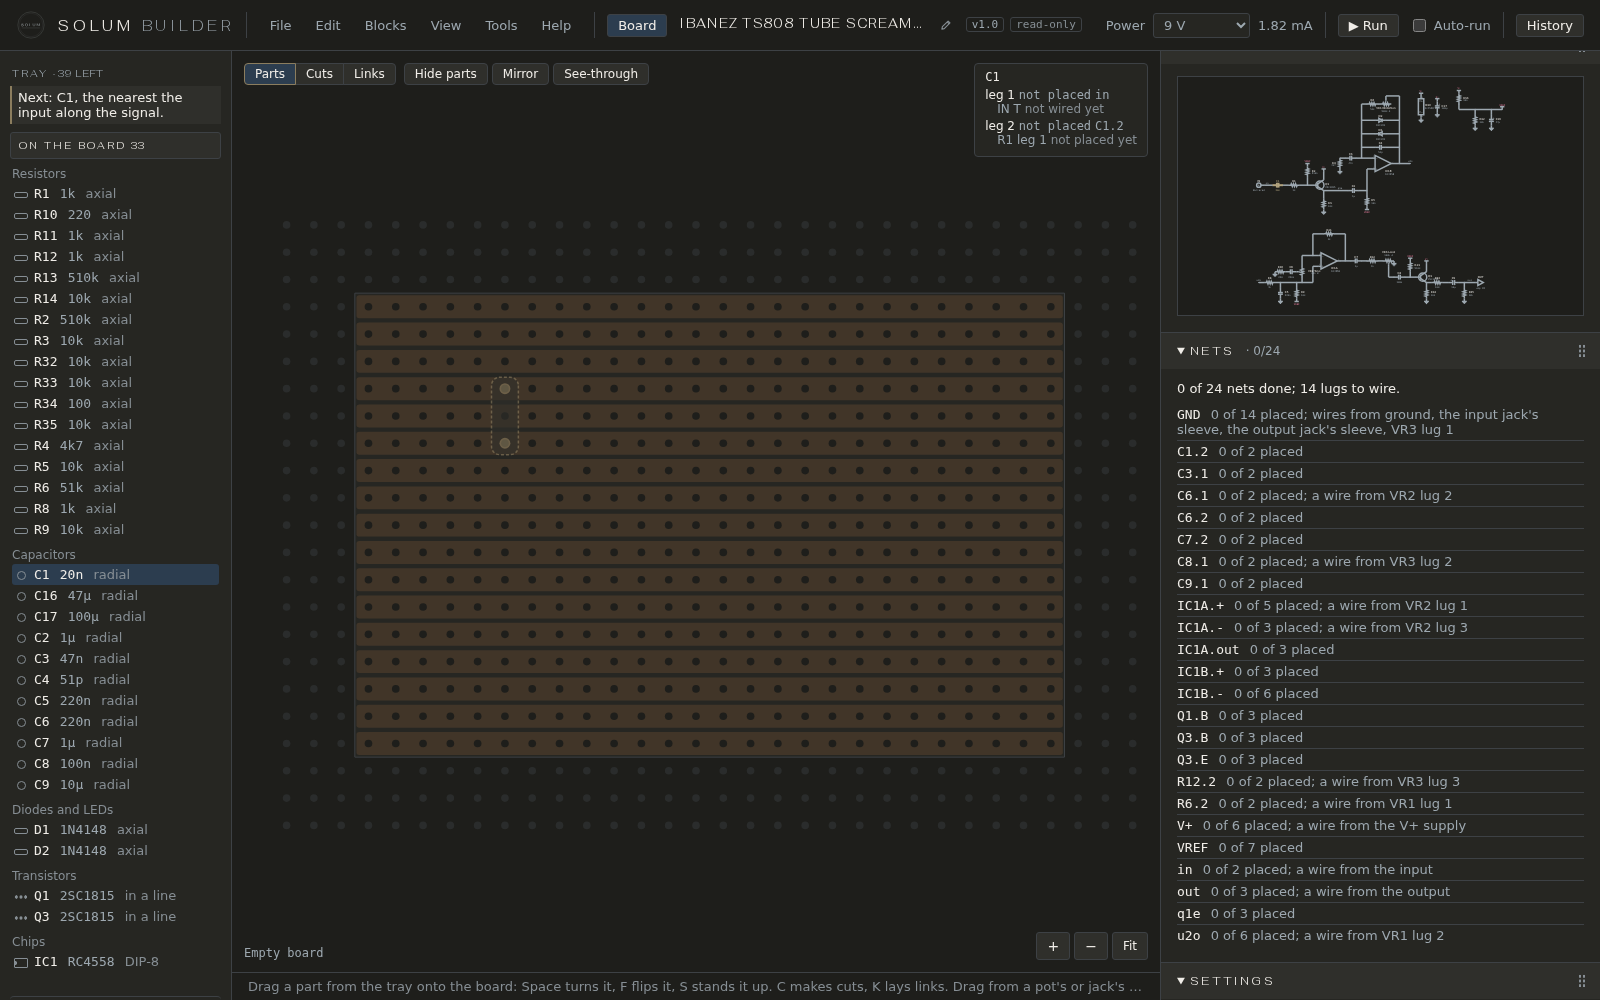
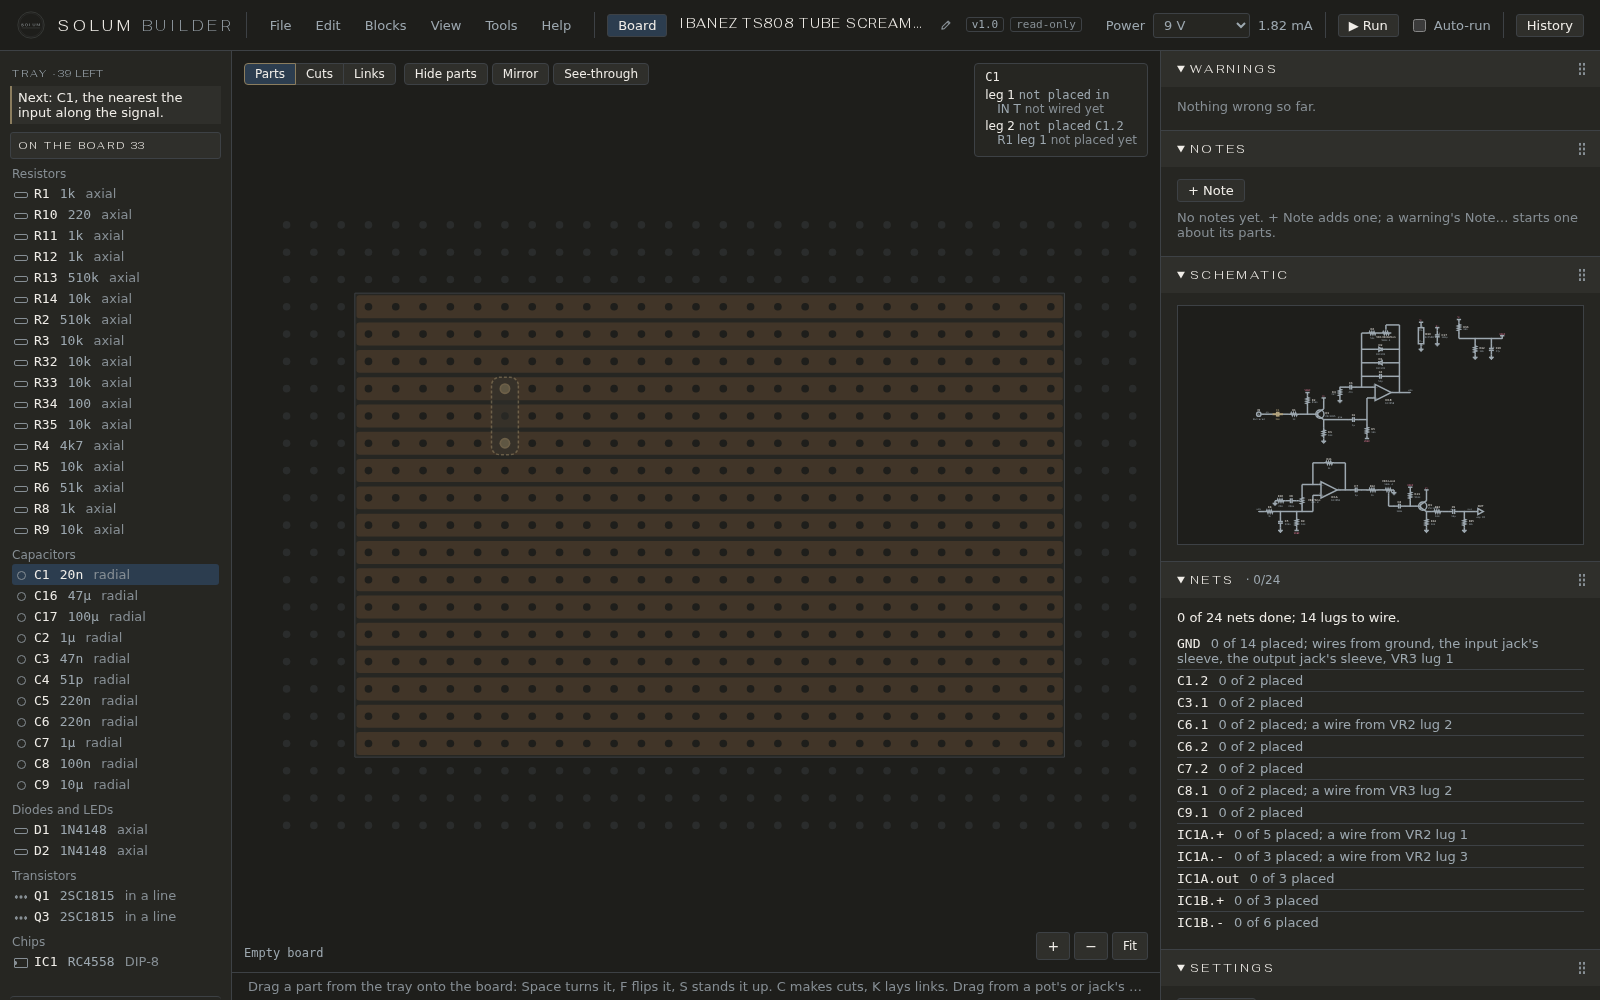
Board: the Nets list scrolls in its own pane; the guide explains the limits and the layout help
- Nets capped at 300 px with its own scroll (as Problems' and DC's lists), so
  Settings and the panes below stay on screen on a big circuit (D-371 note).
  UI test on the TS808's 24 nets; the board pictures made again.
- docs/guide/stripboard.md: why the placement limits matter, which parts each
  keeps, the rule (on the pin's strip, within 2 holes plus one per extra part,
  nothing between), what counts as a link near a high-gain input, and a new
  "How the layout help works" (Start a board, Fill the rest, Tidy up, and
  Build a full layout's search, attempts and how the best board is chosen).

Changed region(s): [[0.7188, 0.093, 0.9688, 1.0], [0.75, 0.062, 0.8125, 0.155]]

diff --git a/web/app.css b/web/app.css
@@ -724,9 +724,10 @@ body:has(.panels details.moving, .board-panels details.moving) { cursor: grabbin
 
 /* Problems (D-077) */
 .panels summary .count, .board-panels summary .count { font-family: var(--font-ui); text-transform: none; letter-spacing: 0; color: var(--text-2); margin-left: 6px; }
-.problem-list, .dc-list { overflow-y: auto; overscroll-behavior: contain; padding-right: 4px; }
+.problem-list, .dc-list, .net-list { overflow-y: auto; overscroll-behavior: contain; padding-right: 4px; }
 .problem-list { max-height: 300px; } /* about six problems */
 .dc-list { max-height: 200px; } /* about the Harmonics plot */
+.net-list { max-height: 300px; } /* the board's Nets: about twelve nets, so the panes below stay in reach */
 .dc-end { color: var(--text-3); font-size: 11px; }
 .problem { border-left: 3px solid var(--border); margin: 0 0 6px; padding: 4px 0 4px 8px; }
 .problem:has(.sev-error) { border-left-color: var(--error); }

diff --git a/web/board/board-view.js b/web/board/board-view.js
@@ -1036,7 +1036,7 @@ export function boardView(host, app) {
     $("board-nets-count").textContent = progress.nets.length ? `· ${progress.nets_done}/${progress.nets.length}` : "";
     $("board-nets-body").replaceChildren(
       h("p", { class: "board-progress" }, [netsLine(progress)]),
-      h("ul", { class: "board-list" }, progress.nets.map((n) => {
+      h("ul", { class: "board-list net-list" }, progress.nets.map((n) => {
         const row = h("li", { class: `net-${n.state}`, "data-net": n.net }, [h("span", { class: "net" }, [n.net]), " ", h("span", { class: "state" }, [netWords(n)])]);
         row.addEventListener("click", () => app.select({ kind: "net", id: n.net }));
         return row;

diff --git a/tests/ui/test_board.py b/tests/ui/test_board.py
@@ -125,6 +125,18 @@ def test_a_circuit_without_a_board_shows_its_parts_to_place(page: Page, base_url
     )
 
 
+def test_a_long_nets_list_scrolls_in_its_own_pane(page: Page, base_url: str) -> None:
+    """The TS808's 24 nets scroll inside Nets (as Problems' rows do, D-077), so Settings
+    below stays in reach without scrolling the whole column."""
+    open_with_board(page, base_url, None, "ts808")
+    page.locator("#board-button").click()
+    nets = page.locator("#board-nets-body .net-list")
+    expect(nets.locator("li")).to_have_count(24)
+    shown, whole = nets.evaluate("e => [e.clientHeight, e.scrollHeight]")
+    assert shown <= 300 < whole
+    expect(page.locator("#board-settings summary")).to_be_in_viewport()
+
+
 def test_the_board_panes_keep_their_own_order(page: Page, base_url: str) -> None:
     open_with_board(page, base_url, None)
     page.locator("#board-button").click()

diff --git a/docs/guide/stripboard.md b/docs/guide/stripboard.md
@@ -54,16 +54,19 @@ The top-left buttons pick what a click does: **Parts** (P) places and moves part
 
 ### Placement limits
 
-Some parts only work well close to a particular pin, so the board checks they are there: on the pin's strip, within a few holes, nothing between:
+Some parts only work as drawn when they sit close to a particular pin. A long run of strip between them acts as an aerial and adds inductance: a decoupling capacitor far from its chip doesn't decouple, and a strip on a high-gain input picks up hum and noise that the stage then amplifies. The board reads these from the circuit:
 
 - a chip's decoupling capacitor by its supply pin, and a charge pump's capacitors;
-- an op-amp's feedback parts by its pin;
-- a regulator's smallest capacitor on each side, and a transistor's bypass capacitor;
-- the parts in series with a high-gain stage's input (a stage with ten times gain or more).
+- an op-amp's feedback parts (those between its output and its − input) by the − input;
+- a regulator's smallest capacitor on each side;
+- a transistor's bypass capacitor by its emitter (a JFET's by its source);
+- the parts in series with a high-gain stage's input. A stage counts as high gain when its own gain is ten times or more with the knobs as set, all down or all up, worked out by simulating the circuit. Parts whose other leg goes to ground, a supply or a reference voltage (a bias resistor, say) aren't kept: no signal reaches them there.
+
+A limit is met when the part's leg is **on the pin's own strip, within 2 holes of the pin, with nothing between** (no cut, no other net's leg). Each more part kept by the same pin gets one more hole: three feedback parts on one pin may be up to 4 holes away. These are warnings, not faults: the board still matches the circuit, and you can decide a part is fine where it is.
 
 A limit broken is a warning that says what breaks it: *D1, D2 and C4 should sit by IC1's pin 6 at O15 (a feedback part): on its strip within 4 holes, nothing between. D1: it's 9 holes away.* When you pick up such a part, only the holes that keep it by its pin are marked; if none is free, the card says what's in the way.
 
-The board also warns of a **link running under or beside a part on a high-gain input**, where it could pick up noise: *The link from I7 to I15 runs beside R5, on IC1's pin 5 (the high-gain stage's input): move it a column or two.* Links on ground and the supplies don't count.
+The board also warns of a **link running under or beside a part on a high-gain input**, where it could pick up noise: *The link from I7 to I15 runs beside R5, on IC1's pin 5 (the high-gain stage's input): move it a column or two.* A link counts when it passes under such a part, within one hole of one of its legs in any direction, or under a chip with a high-gain input pin. Links on ground, the supplies and reference voltages don't count: they carry no signal to pick up.
 
 ### Bodies that touch
 
@@ -109,6 +112,17 @@ Links are drawn in lavender on both sides. **Highlight rails**, in Settings, tin
 
 Start a board and Tidy up give you a start to work from; Build a full layout gives a finished board, usually a fraction of Start a board's size. Every kind keeps the parts you moved off the board, your board notes and your dismissals.
 
+### How the layout help works
+
+All four follow the placement limits and avoid links near high-gain inputs where they can, and all leave a board that passes the check.
+
+- **Start a board** lays the parts out left to right in signal order, from the input. Each net is carried along a strip, a part's legs go across the strips to reach their nets, and a part kept by a pin (a decoupling capacitor, a feedback part) is laid out right beside that pin's part. Any net still in pieces gets a strip of its own across the board, with each piece linked to it, which is why it never fails. It's quick and always the same, but roomy: a start, not a finished board.
+- **Fill the rest** does the same for the tray's parts only, below what you placed, linking them up to it. Your parts don't move.
+- **Tidy up** tries small changes one at a time, in a fixed order: drop a link or cut, move a part, link or cut one hole left or up, take out an empty column or strip, trim the edges. It keeps a change only when the board still passes the check, no limit it met is broken, and the board is no bigger and has no more cuts or links. It stops when nothing more helps.
+- **Build a full layout** starts from Start a board's layout, squeezes out the empty lines, then searches. It makes thousands of random changes (slide a part, turn it, swap two parts, take out a line, move a part a long way) and works out the cuts and links again after each one. A change that makes the board better is kept; early on, a change that makes it a little worse is sometimes kept too, so the search can get out of a dead end, and that happens less and less as it goes on (the method is called simulated annealing). Parts never land on each other, and no new touching bodies are made.
+
+  It makes four such attempts side by side, each from a different random start, and keeps the best board. The best board is the one that breaks the fewest placement limits; then the one with the fewest links near a high-gain input; then the smallest; then the one with the fewest cuts and links. Each attempt runs a fixed number of steps (more for a bigger circuit), not a fixed time, so the same circuit gives the same board on any computer. **Thorough** runs each attempt four times as long, and **Try another** runs four attempts from other random starts.
+
 ### Build a full layout
 
 Choose how long it looks:
@@ -148,7 +162,7 @@ A trimmer goes on as the square single-turn kind (triangle, Bourns 3362P) unless
 
 ## Nets and warnings
 
-**Nets** lists every net, *done*, *in pieces* or *shorted*, with how many of its legs are placed and which wires it still needs: *18 of 24 nets done; 14 lugs to wire.* Click a net to light it on the board and the schematic.
+**Nets** lists every net, *done*, *in pieces* or *shorted*, with how many of its legs are placed and which wires it still needs: *18 of 24 nets done; 14 lugs to wire.* A long list scrolls inside the pane, so the panes below stay in reach. Click a net to light it on the board and the schematic.
 
 **Warnings** lists faults first, then the broken limits and the rest. When the board is complete and right it says *The board matches the circuit.*
 

diff --git a/docs/DECISIONS.md b/docs/DECISIONS.md
@@ -2143,6 +2143,7 @@ Calculators → *Filter* (`filterCalculator` in `web/tools.js`, `GET /api/tools/
 - (Superseded by D-385: no stock bypass, `stock_bypass` removed.) **The stock bypass** (`check.stock_bypass`): a 3PDT footswitch unless the schematic draws a latching stomp (a switch whose positions are On / Bypassed: `switches.py`'s `_stomp`, so a momentary tap-tempo switch doesn't count), a status LED unless it draws an LED labelled "status" (`export.is_status_led`, now the one test of that, used by `built_where` and the parts list).
 - **The editor's settings are one server preference, `solum.board`** (`{values, next, shorts, grow, seeThrough}`, D-311), so they follow the person as the pane order does; a missing or garbled one reads as its default (`readSettings`). All five are listed from the start; the ones whose feature hasn't landed show their default, disabled, with "Comes with placing parts" in the tooltip, and become live as each lands (`BOARD_SETTINGS[].acts`).
 - *Why:* the spec's tray lists off-board parts and the footswitch; grouping them as the parts list does keeps one owner of "what is one thing to buy". The settings in one place from the start, so the pane doesn't change shape item by item.
+- **The Nets list scrolls in its own pane** (the user, 2026-11-24): capped at 300 px (about twelve nets, `.net-list`, as Problems' and DC's lists, D-077), so on a big circuit (the TS808's 24 nets) Settings and the panes below stay on screen without scrolling the whole column.
 *Alternatives:* the tray as a pane in the right column (the left stood empty in the Board view); off-board wire ends as tray rows (seven rows for three parts); a second grouping of poles and gangs in the stripboard code (two owners); the settings in `localStorage` (lost when the Mac app's port changes, D-311); showing only the settings that act yet (the pane reshuffles with every phase).
 
 
